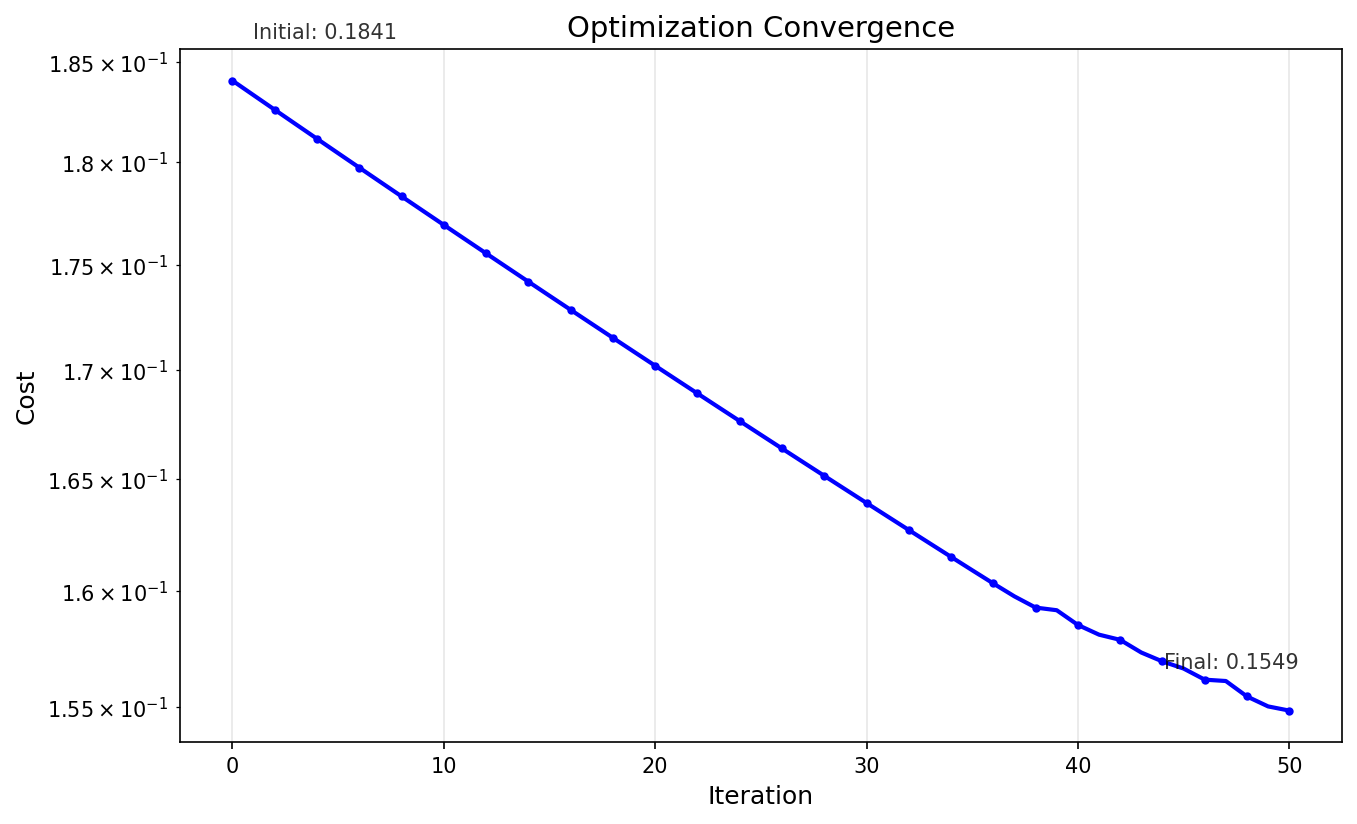
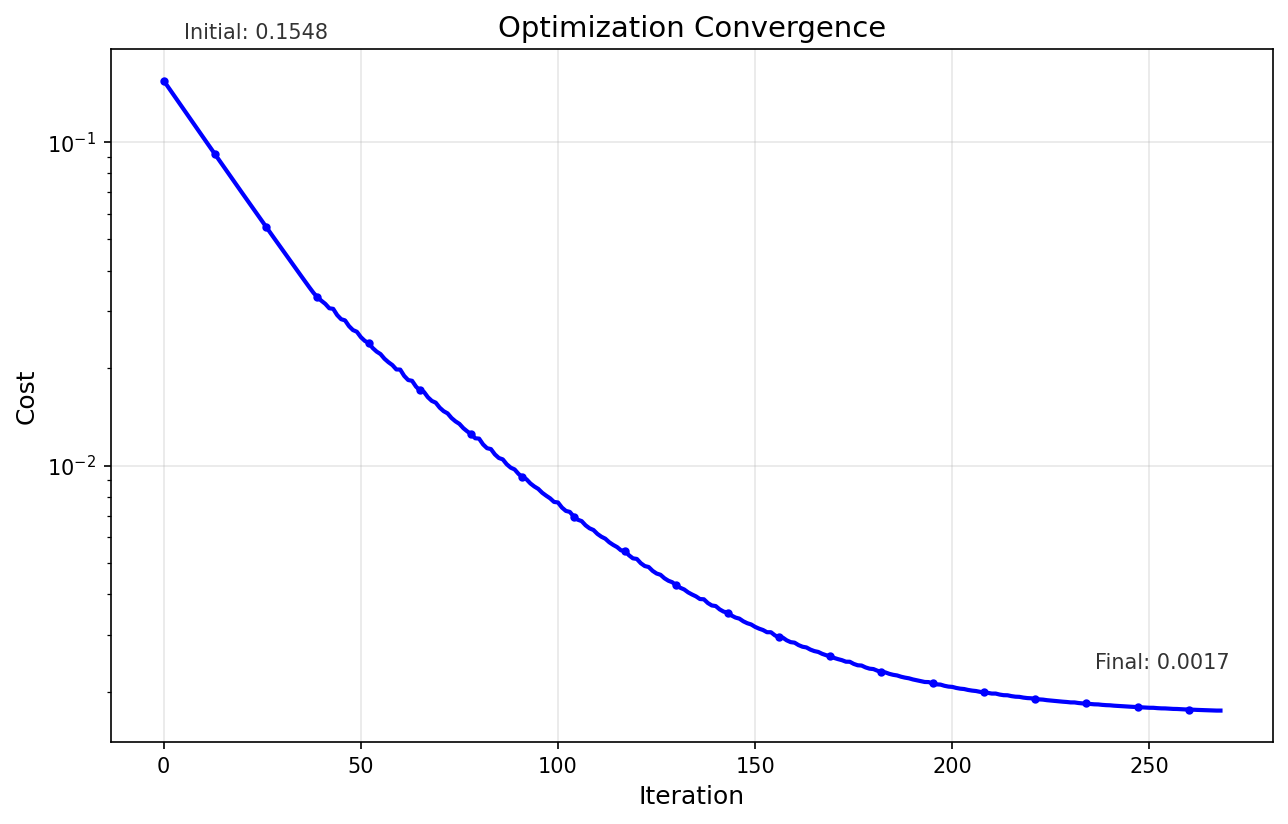
Improve default optimizer parameters for non-rigid registration
Updated OptimizerConfig defaults:
- lr_d: 0.001 -> 0.01 (faster deformation convergence)
- lambda_smooth: 0.1 -> 0.01 (allows capturing local deformations)
- max_iterations: 200 -> 300 (more time to converge)

The previous defaults were too restrictive for non-rigid registration,
preventing the optimizer from capturing localized deformations like dents.

Updated example visualizations now show proper deformation registration:
- RMSE improved from 0.03 to 0.001
- Localized dent is now properly captured

Trade-off: Lower lambda_smooth may produce less smooth deformations.
Increase lambda_smooth if smoother results are needed.

diff --git a/src/optimizer.py b/src/optimizer.py
@@ -38,13 +38,13 @@ class OptimizerConfig:
     # Learning rates
     lr_R: float = 0.01          # Rotation learning rate
     lr_t: float = 0.01          # Translation learning rate
-    lr_d: float = 0.001         # Deformation learning rate
+    lr_d: float = 0.01          # Deformation learning rate (increase for more flexibility)
 
-    # Regularization
-    lambda_smooth: float = 0.1  # Smoothness regularization weight
+    # Regularization (lower = more deformation flexibility, higher = smoother)
+    lambda_smooth: float = 0.01  # Smoothness regularization weight
 
     # Convergence criteria
-    max_iterations: int = 200
+    max_iterations: int = 300
     cost_tol: float = 1e-7      # Stop if |cost_change| < tol
     grad_tol: float = 1e-6      # Stop if gradient norm < tol
 
